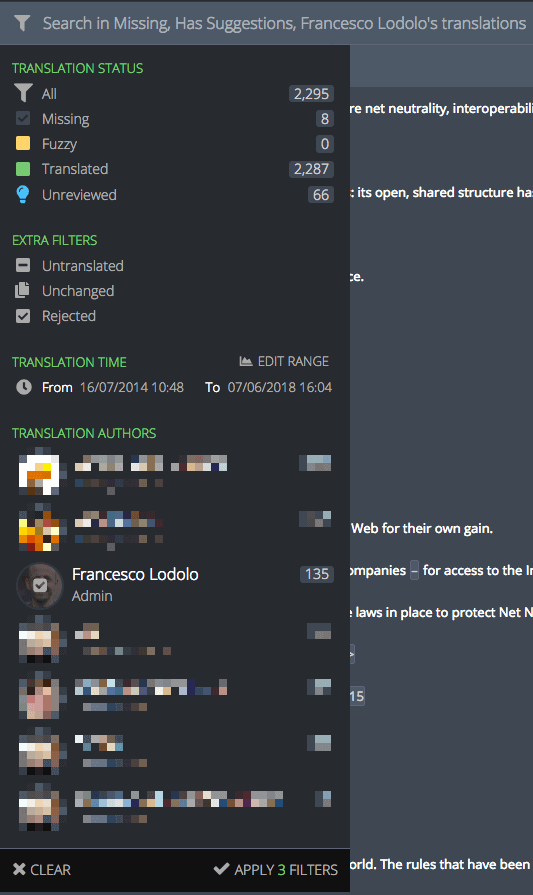
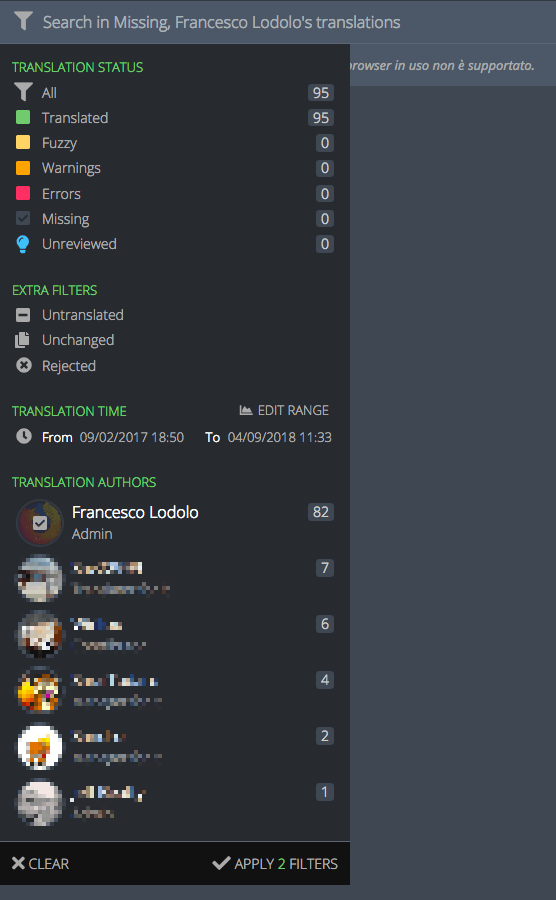
Update images and text for filters page

Changed region(s): [[0.0, 0.0, 1.0, 1.0], [0.7205, 0.9352, 0.9906, 0.9955]]

diff --git a/tools/pontoon/search_filters.md b/tools/pontoon/search_filters.md
@@ -14,6 +14,8 @@ Strings in Pontoon can be filtered by their status. A string can be in one of th
 * *Rejected*: string has been reviewed and rejected by a translator.
 
 There are some extra criteria that can be used to filter strings:
+* *Warnings*: string contains issues classified as [warnings](translate.md#warnings).
+* *Errors*: string contains [critical issues](translate.md#errors).
 * *Untranslated*: this will display strings that are either missing – including those with unreviewed suggestions – or fuzzy. Basically, anything but translated. Once selected, you will also notice that those 2 filters are automatically checked.
 * *Unchanged*: string is identical to the reference language (normally en-US).
 
